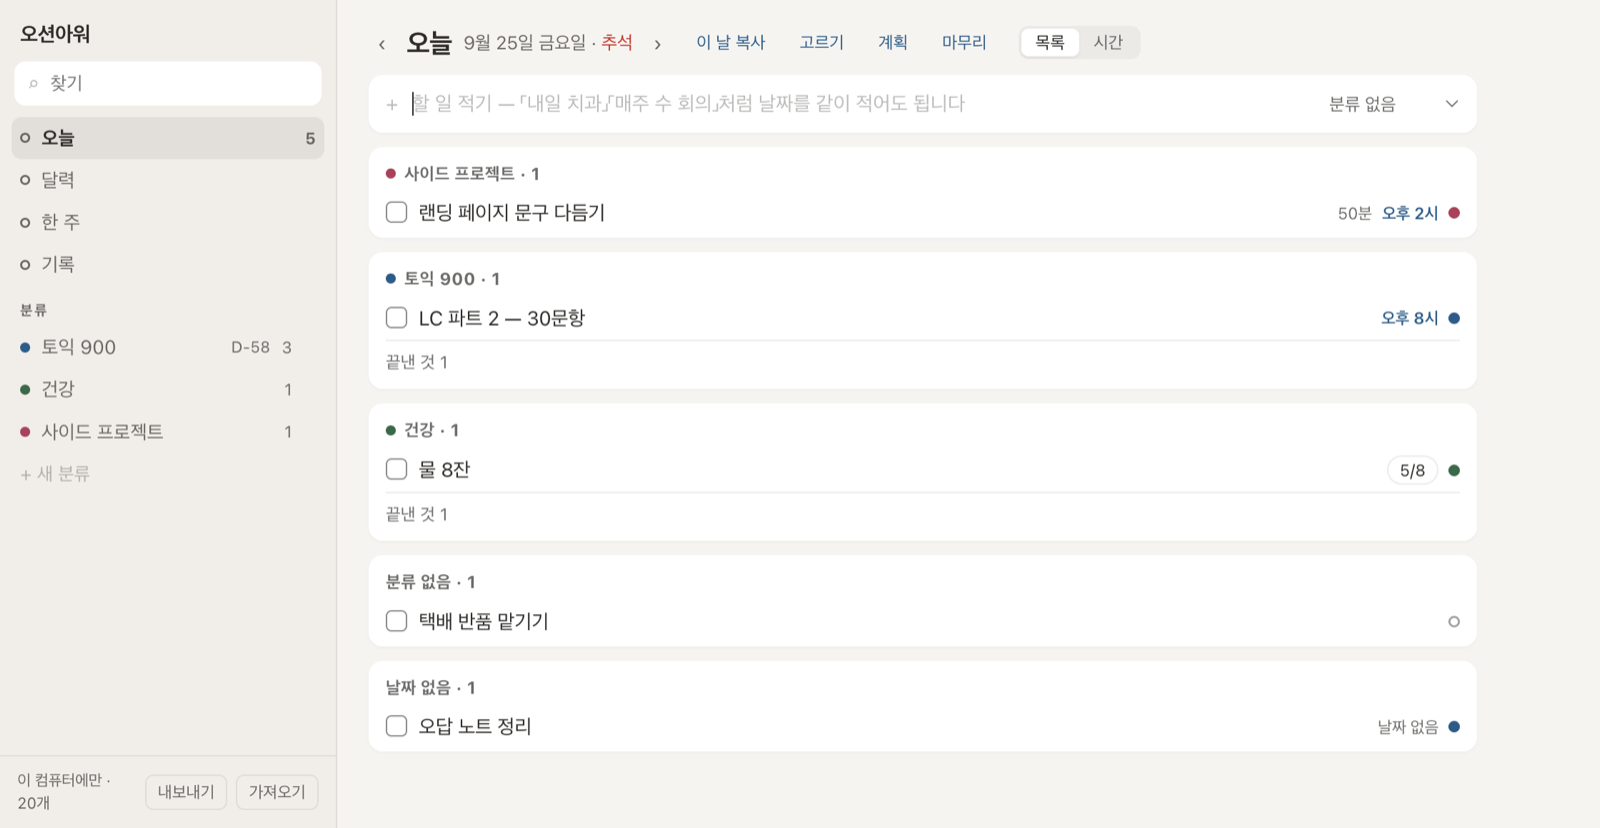
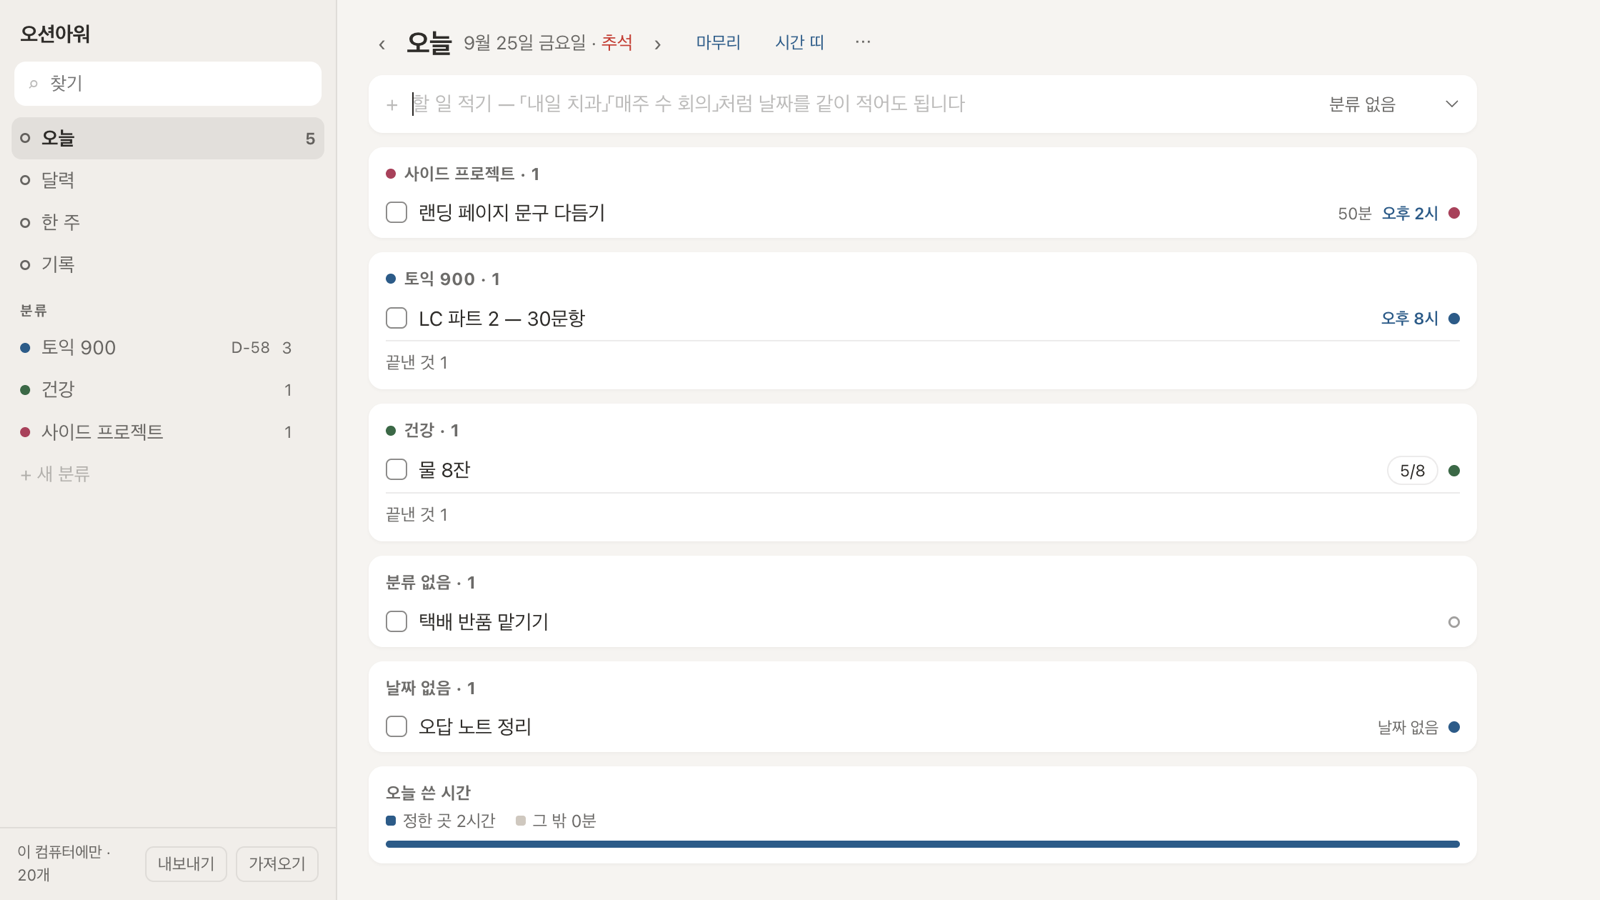
덜어내기 · 첫날 차이 · 파는 페이지 값 칸
- 날짜 줄은 다섯, 할 일 줄 도구는 여덟만 늘 보이고 나머지는 ⋯ · 더로 편다
- 처음 연 빈 화면에 예시 막대, 오늘 화면 맨 아래에 오늘 쓴 시간
- 파는 페이지: 폰 앱 「준비 중」을 사실대로 고침, 오늘 화면 사진 새로

diff --git a/app/index.html b/app/index.html
@@ -184,6 +184,15 @@ main{flex:1;overflow:auto}
 .daybar button{color:var(--d70);font-size:15px;padding:1px 6px;border-radius:6px;line-height:1.3}
 .daybar button:hover{background:var(--hov);color:var(--ink)}
 .daybar .today{font-size:12px;margin-left:4px;color:var(--c4)}
+/* 늘 보이는 단추는 다섯까지(규칙 13) — 나머지는 「⋯」를 누르면 편다 */
+.daybar .xtra{display:none}
+.daybar.more-on .xtra{display:inline-block}
+.daybar .dmore{font-size:14px;padding:1px 7px;letter-spacing:.05em}
+.daybar.more-on .dmore{background:var(--hov);color:var(--ink)}
+.daybar .dseg{background:transparent;padding:0;margin-left:4px}
+.daybar .dseg button.on{display:none}
+.daybar .seg.dseg button{font-size:12px;color:var(--c4);padding:1px 6px;border-radius:6px}
+.daybar .seg.dseg button:hover{background:var(--hov)}
 .daybar .gdot{width:10px;height:10px}
 .daybar .gn{cursor:text;border-radius:4px;padding:0 2px;margin:0 -2px}
 .daybar .gn:hover{background:var(--hov)}
@@ -258,6 +267,9 @@ li.row:has(.edit) .tools{display:none}
 body.cool .tools{pointer-events:none!important}   /* 도구를 누른 직후 0.5초 — 줄이 밀려 다른 단추가 손 밑에 와도 두 번 눌리지 않게 */
 .tools button{font-size:11.5px;color:var(--d70);padding:2px 5px;border-radius:5px;white-space:nowrap}
 .tools button:hover{background:var(--hov);color:var(--ink)}
+.tools .xtra{display:none}                     /* 늘 보이는 도구는 여덟까지(규칙 13) — 나머지는 「더」 */
+li.row.tools-more .tools .xtra{display:inline-block}
+li.row.tools-more .tools .tmore{display:none}
 .tools .rep{position:relative;display:inline-flex}
 .tools .rep select{position:absolute;inset:0;width:100%;opacity:0;cursor:pointer}
 .tools .rep:hover button{background:var(--hov);color:var(--ink)}
@@ -265,6 +277,10 @@ body.cool .tools{pointer-events:none!important}   /* 도구를 누른 직후 0.5
 .edit.big{font-size:19px;font-weight:700;width:auto;min-width:240px}
 .box > .edit{display:block;margin:4px 0 8px;padding:3px 4px}
 .empty{color:var(--d32);font-size:13px;padding:7px 0 11px}
+.first{border-top:1px solid var(--line);padding:11px 0 4px;font-size:13px;color:var(--d70);line-height:1.6}
+.first p{margin:0 0 10px}
+.first .ex{background:var(--hov);border-radius:8px;padding:7px 10px 1px;margin:0 0 10px}
+.first .exl{display:block;font-size:11px;font-weight:700;letter-spacing:.08em;margin:0 0 5px}
 /* 메모 — 줄 아래에 펼친다. 적는 대로 저장한다 */
 .meta .nm-mark{cursor:pointer}
 /* 하위 할 일 — 줄 아래로 펼친다. 한 겹만 */
@@ -448,6 +464,9 @@ body.tdragging,body.tdragging *{cursor:grabbing!important;user-select:none}
   .topbar .tb-t{font-weight:700;font-size:14.5px;letter-spacing:-.02em}
   .wrap{padding:4px 12px calc(96px + env(safe-area-inset-bottom))}
   .daybar{flex-wrap:wrap;row-gap:6px}
+  .daybar.dayb{flex-wrap:nowrap;gap:4px}        /* 날짜 줄은 한 줄로 — 날짜 글자가 길면 줄여서 ⋯ 까지 한 줄에 */
+  .daybar.dayb .wd{min-width:0;overflow:hidden;text-overflow:ellipsis;white-space:nowrap}
+  .daybar.dayb.more-on{flex-wrap:wrap}
   .daybar h1{white-space:nowrap}
   .daybar .ics{margin-left:0}
   input,select,textarea{font-size:16px}          /* 16px 보다 작으면 아이폰이 누를 때마다 화면을 확대한다 */
@@ -1134,6 +1153,8 @@ const editing = () => !!document.querySelector('input.edit')
 let openNotes = new Set();                      // 메모를 펼친 할 일
 let openSubs  = new Set();                      // 하위 할 일을 펼친 할 일
 let toolsOn   = null;                           // 폰 — 「⋯」로 도구를 편 줄 하나
+let toolsMore = null;                           // 도구의 「더」를 편 줄 하나 — 늘 보이는 도구는 여덟까지(규칙 13)
+let dayMore   = false;                          // 날짜 줄의 「⋯」를 폈나
 let copyFor   = null, copyPick = new Set();     // 복사 — 할 일 id 또는 'day:날짜' · 고른 날들
 let picking   = false, picked = new Set();      // 여러 개 골라 한꺼번에
 const stopPick = () => { picking = false; picked = new Set(); };
@@ -1228,6 +1249,7 @@ function drawSide(){
 
 function drawDay(){
   const T = DB.today();
+  $('#daybar').classList.remove('more-on', 'dayb');
   if (q){ $('#daybar').innerHTML = `<h1>찾기</h1><span class="wd">「${esc(q)}」</span>`; return; }
   if (open){
     const l = DB.listOf(open);
@@ -1261,16 +1283,20 @@ function drawDay(){
          ${calWeek !== DB.monday(T) ? `<button class="today" data-cm="0">이번 주</button>` : ''}${seg}${noHoli}${ics}`
       : `<button data-cm="-1">‹</button><h1>${y}년 ${m}월</h1><button data-cm="1">›</button>
          ${calMonth !== T.slice(0, 7) ? `<button class="today" data-cm="0">이번 달</button>` : ''}${seg}${noHoli}${ics}`; return; }
+  // 늘 보이는 단추는 다섯까지(규칙 13) — 나머지는 「⋯」 안에. 계획 · 마무리는 때에 맞는 하나만 앞에 둔다(오후 세 시부터 마무리)
+  const pmNow = new Date().getHours() >= 15;
+  $('#daybar').classList.toggle('more-on', dayMore); $('#daybar').classList.add('dayb');
   $('#daybar').innerHTML =
       `<button data-go="-1">‹</button>
        <h1>${day===T ? '오늘' : dOnly(day)}</h1>
        <span class="wd">${dOnly(day)} ${weekday(day)}${DB.holiday(day) ? ` · <span class="hol">${DB.holiday(day)}</span>` : DB.jeolgi(day) ? ` · ${DB.jeolgi(day)}` : ''}</span>
        <button data-go="1">›</button>
        ${day!==T ? `<button class="today" data-go="0">오늘로</button>` : ''}
-       ${DB.todosOn(day).length ? `<button class="today" data-daycopy title="이 날의 할 일을 다른 날에도">이 날 복사</button>` : ''}
-       <button class="today" data-pickon title="여러 개를 골라 한꺼번에 옮기기 · 끝내기 · 지우기">고르기</button>
-       ${day === T ? `<button class="today" data-flow="am" title="아침 계획 — 남은 일과 날짜 없는 일에서 오늘 할 것 고르기">계획</button><button class="today" data-flow="pm" title="저녁 마무리 — 오늘 한 것 · 남은 것 · 한 줄">마무리</button>` : ''}
-       <span class="seg"><button data-daymode="list" class="${dayMode === 'list' ? 'on' : ''}">목록</button><button data-daymode="time" class="${dayMode === 'time' ? 'on' : ''}" title="그날 하루를 시간 띠로">시간</button></span>`;
+       ${day === T ? `<button class="today ${pmNow ? 'xtra' : ''}" data-flow="am" title="아침 계획 — 남은 일과 날짜 없는 일에서 오늘 할 것 고르기">계획</button><button class="today ${pmNow ? '' : 'xtra'}" data-flow="pm" title="저녁 마무리 — 오늘 한 것 · 남은 것 · 한 줄">마무리</button>` : ''}
+       <span class="seg dseg"><button data-daymode="list" class="${dayMode === 'list' ? 'on' : ''}" title="할 일 목록으로">목록</button><button data-daymode="time" class="${dayMode === 'time' ? 'on' : ''}" title="그날 하루를 시간 띠로">시간 띠</button></span>
+       ${DB.todosOn(day).length ? `<button class="today xtra" data-daycopy title="이 날의 할 일을 다른 날에도">이 날 복사</button>` : ''}
+       <button class="today xtra" data-pickon title="여러 개를 골라 한꺼번에 옮기기 · 끝내기 · 지우기">고르기</button>
+       <button class="dmore" data-daymore title="${dayMore ? '접기' : '더 — ' + (day === T ? (pmNow ? '계획' : '마무리') + ' · ' : '') + (DB.todosOn(day).length ? '이 날 복사 · ' : '') + '고르기'}" aria-label="더 보기">⋯</button>`;
 }
 
 function row(t){
@@ -1294,7 +1320,7 @@ function row(t){
       <option value="days" ${r&&r.every==='days'?'selected':''}>${r&&r.every==='days' ? r.n + '일마다' : '며칠마다…'}</option>
       <option value="times" ${r&&r.every==='times'?'selected':''}>${r&&r.every==='times' ? '주 ' + r.n + '회' : '주 몇 회…'}</option>
       ${r ? `<option value="${r.paused ? 'resume' : 'pause'}">${r.paused ? '다시 하기' : '잠시 멈춤'}</option>` : ''}</select></span>`;
-  return `<li class="row ${t.done?'done':''} ${toolsOn === t.id ? 'tools-on' : ''} ${picked.has(t.id) ? 'picked' : ''}" data-t="${esc(t.id)}" tabindex="-1">
+  return `<li class="row ${t.done?'done':''} ${toolsOn === t.id ? 'tools-on' : ''} ${toolsMore === t.id ? 'tools-more' : ''} ${picked.has(t.id) ? 'picked' : ''}" data-t="${esc(t.id)}" tabindex="-1">
     ${picking ? `<span class="pk"></span>` : ''}
     ${m === 'day' || m === 'goal' ? `<span class="grip" draggable="true" title="끌어서 순서 바꾸기">⋮⋮</span>` : ''}
     <span class="ck ${t.done?'on':''}" data-do="toggle"></span>
@@ -1304,17 +1330,18 @@ function row(t){
         ${t.run ? `<button data-do="stop">멈춤</button>` : !t.done && !inLog ? `<button data-do="start" title="시간 재기">시작</button>` : ''}
         ${!inLog && t.date ? `<button data-do="tomorrow">${t.date > T ? '하루 뒤로' : '내일로'}</button>` : ''}
         ${!inLog && t.date !== T ? `<button data-do="toToday">오늘로</button>` : ''}
-        ${!inLog && r && !t.done ? `<button data-do="skip" title="끝낸 것으로 세지 않고 다음 날로">건너뛰기</button>` : ''}
-        ${!inLog && r && !t.done && !t.run ? `<button data-do="detach" title="이번 것만 따로 떼어 고칩니다 — 반복은 다음 날부터 그대로">이번만 따로</button>` : ''}
         ${!inLog && !t.done ? repSel : ''}
         ${!inLog && !t.done ? (t.time ? `<button data-do="cleartime">시각 빼기</button>` : `<button data-do="timepick">시각</button>`) : ''}
-        ${!inLog && !t.done && t.date && !r ? (t.endDate ? `<button data-do="clearend">기간 빼기</button>` : `<button data-do="endpick" title="며칠에 걸친 일 — 끝나는 날 고르기">기간</button>`) : ''}
-        ${!inLog && !t.done ? (t.deadline ? `<button data-do="cleardl">마감 빼기</button>` : `<button data-do="dlpick" title="언제까지 — 할 날과 따로">마감</button>`) : ''}
         ${!hasNote ? `<button data-do="note">메모</button>` : ''}
         ${!subs.length && !inLog ? `<button data-do="subs" title="잘게 나눠 적기">하위 할 일</button>` : ''}
-        ${!inLog ? `<button data-do="copy" title="같은 일을 다른 날에도">복사</button>` : ''}
-        ${!inLog && !t.done ? (t.goal ? `<button data-do="countdown" title="하나 빼기">한 번 빼기</button><button data-do="nogoal">세기 빼기</button>` : `<button data-do="setgoal" title="물 8잔처럼 하루에 여러 번">세기</button>`) : ''}
         <button data-do="del">지움</button>
+        ${!inLog && r && !t.done ? `<button class="xtra" data-do="skip" title="끝낸 것으로 세지 않고 다음 날로">건너뛰기</button>` : ''}
+        ${!inLog && r && !t.done && !t.run ? `<button class="xtra" data-do="detach" title="이번 것만 따로 떼어 고칩니다 — 반복은 다음 날부터 그대로">이번만 따로</button>` : ''}
+        ${!inLog && !t.done && t.date && !r ? (t.endDate ? `<button class="xtra" data-do="clearend">기간 빼기</button>` : `<button class="xtra" data-do="endpick" title="며칠에 걸친 일 — 끝나는 날 고르기">기간</button>`) : ''}
+        ${!inLog && !t.done ? (t.deadline ? `<button class="xtra" data-do="cleardl">마감 빼기</button>` : `<button class="xtra" data-do="dlpick" title="언제까지 — 할 날과 따로">마감</button>`) : ''}
+        ${!inLog ? `<button class="xtra" data-do="copy" title="같은 일을 다른 날에도">복사</button>` : ''}
+        ${!inLog && !t.done ? (t.goal ? `<button class="xtra" data-do="countdown" title="하나 빼기">한 번 빼기</button><button class="xtra" data-do="nogoal">세기 빼기</button>` : `<button class="xtra" data-do="setgoal" title="물 8잔처럼 하루에 여러 번">세기</button>`) : ''}
+        ${!inLog ? `<button class="tmore" data-do="toolmore" title="더 — 건너뛰기 · 기간 · 마감 · 복사 · 세기">더</button>` : ''}
       </span>
       <button class="more" data-do="more" aria-label="도구 펼치기">⋯</button>
       ${t.run ? `<span class="d run" data-run="${esc(t.id)}">● ${fmtClock(DB.runSecs(t))}</span>`
@@ -1609,14 +1636,24 @@ function drawBody(){
         + (showPast ? `<div class="box"><ul>${p.map(row).join('')}</ul></div>` : '');
     }
     const ts = DB.todosOn(day).sort(DB.byWhen), rt = ts.filter(t => t.repeat);   // 루틴(반복하는 일)은 맨 위 한 칸에 따로
+    const first = day === T && !DB.todos().length && !DB.lists().length;   // 처음 온 사람 — 설명 창 없이 빈 칸에서 차이를 보여 준다(규칙 9)
     html += ts.length ? (rt.length ? `<div class="box routine"><h2>루틴${cnt(rt)}</h2>${rows(rt)}</div>` : '') + group(ts.filter(t => !t.repeat), true)
       : `<div class="box"><div class="empty">${day===T
-          ? '오늘 할 일이 없습니다. 위에 적어 보세요.' : '이 날은 비어 있습니다.'}</div></div>`;
+          ? '오늘 할 일이 없습니다. 위에 적어 보세요.' : '이 날은 비어 있습니다.'}</div>${first ? firstHint() : ''}</div>`;
     const un = DB.undated().sort(DB.byWhen);
     if (un.length && day === T)
       html += `<div class="box"><h2>날짜 없음${cnt(un)}</h2>${rows(un)}</div>`;
+    const sp = DB.timeByDay()[day];               // 이 날 쓴 시간 — 정한 곳 · 그 밖을 오늘 화면에서도(규칙 9). 잰 게 있을 때만, 맨 아래에
+    if (sp && sp.on + sp.off) html += `<div class="box dsum"><h2>${day === T ? '오늘' : '이 날'} 쓴 시간</h2>${timeLine(sp)}</div>`;
   }
   $('#body').innerHTML = html;
+}
+
+function firstHint(){                           // 처음 온 사람에게 — 두 줄과 예시 막대 하나. 할 일이나 목표가 하나라도 생기면 사라진다
+  return `<div class="first"><p>「+ 새 분류」로 목표를 만들고(폰은 ☰ 안), 그 목표의 일에 시간을 쓰면 하루가 둘로 나뉘어 보입니다.
+      정한 곳은 목표에 이어 둔 일, 그 밖은 나머지입니다.</p>
+    <div class="ex"><span class="exl">예시</span>${timeLine({ on:7200, off:3600 })}</div>
+    <p>시간은 할 일 줄의 「시작」으로 재거나, 「3시 공부」처럼 시각을 적어 두고 끝내면 들어갑니다.</p></div>`;
 }
 
 /* ── 제자리 고치기 ── */
@@ -1906,6 +1943,10 @@ document.addEventListener('click', e => {
 
 /* ── 누르기 ── */
 let coolT;
+document.addEventListener('click', e => {         // 날짜 줄 「⋯」 — 펴고 접는다. 편 것 중 하나를 누르면 접는다(먼저 돈다)
+  if (e.target.closest('[data-daymore]')){ dayMore = !dayMore; e.stopImmediatePropagation(); return render(); }
+  if (dayMore && e.target.closest('#daybar .xtra')) dayMore = false;
+}, true);
 document.addEventListener('click', e => {
   if (swallowClick){ swallowClick = false; return; }
   if (e.target.closest('[data-pickon]')){ picking = !picking; picked = new Set(); toolsOn = null; return render(); }
@@ -2050,17 +2091,18 @@ document.addEventListener('click', e => {
   const el = e.target.closest('[data-do]'); if (!el) return;
   const t = DB.todo(el.closest('[data-t]').dataset.t); if (!t) return;
   const a = el.dataset.do;
-  if (a === 'more'){ toolsOn = toolsOn === t.id ? null : t.id; return render(); }
-  if (a === 'copy'){ toolsOn = null; copyFor = copyFor === t.id ? null : t.id; copyPick = new Set(); return render(); }
+  if (a === 'more'){ toolsOn = toolsOn === t.id ? null : t.id; toolsMore = null; return render(); }
+  if (a === 'toolmore'){ toolsMore = toolsMore === t.id ? null : t.id; return render(); }
+  if (a === 'copy'){ toolsOn = null; toolsMore = null; copyFor = copyFor === t.id ? null : t.id; copyPick = new Set(); return render(); }
   if (a === 'countup' || a === 'countdown'){ const r = DB.countUp(t.id, a === 'countup' ? 1 : -1); if (!r) return; render();
     if (r.full) toast(`다 채웠습니다 · 「${t.text}」 ${r.n}/${t.goal}`, () => { DB.toggleTodo(t.id); DB.countUp(t.id, -1); });
     return; }
   if (a === 'setgoal'){ const n = parseInt(prompt('하루에 몇 번 할까요? (2~99)', 3), 10);
     if (n >= 2 && n <= 99) DB.editTodo(t.id, { goal:n }); return render(); }
   if (a === 'nogoal'){ const was = t.goal; DB.editTodo(t.id, { goal:null }); render(); return toast(`세기를 뺐습니다 · 「${t.text}」`, () => DB.editTodo(t.id, { goal:was })); }
-  if (a === 'detach'){ toolsOn = null; const r = DB.detachOnce(t.id); if (!r) return;
+  if (a === 'detach'){ toolsOn = null; toolsMore = null; const r = DB.detachOnce(t.id); if (!r) return;
     render(); return toast(`이번 것만 떼어 냈습니다 · 반복은 ${dOnly(DB.todo(t.id).date)}부터`, () => DB.undetach(r)); }
-  if (el.closest('.tools')) toolsOn = null;       // 도구를 하나 쓰면 접는다
+  if (el.closest('.tools')){ toolsOn = null; toolsMore = null; }   // 도구를 하나 쓰면 접는다
   if (el.closest('.tools')){ document.body.classList.add('cool'); clearTimeout(coolT);
     coolT = setTimeout(() => document.body.classList.remove('cool'), 500); }
 

diff --git a/index.html b/index.html
@@ -73,7 +73,7 @@ ul.facts{padding:0 0 0 18px;margin:0}
 ul.facts li{margin:0 0 8px}
 .price{font-size:22px;font-weight:700;margin:6px 0 8px}
 .card .go{margin-top:14px}
-.card.later{background:transparent;border:1px dashed rgba(46,44,41,.22);box-shadow:none}
+.card.solo{max-width:430px;margin:0 0 14px}
 footer{border-top:1px solid var(--line);padding:24px 0 40px;font-size:13px;color:var(--d70)}
 @media (max-width:640px){
   h1{font-size:31px}
@@ -129,8 +129,8 @@ footer{border-top:1px solid var(--line);padding:24px 0 40px;font-size:13px;color
     <li><h3>주말에 돌아봅니다</h3><p>잘 된 것, 걸린 것, 다음 주 한 가지. 세 칸이면 끝입니다.</p></li>
   </ol>
   <figure class="shot">
-    <img src="shot-today.png" width="1600" height="828" alt="오션아워 오늘 화면. 맨 위가 바로 적는 칸이고, 할 일이 목표별로 묶여 있다">
-    <figcaption>열면 바로 적는 칸입니다. 「내일 치과 3시」처럼 날짜와 시각을 같이 적어도 알아듣습니다.</figcaption>
+    <img src="shot-today.png" width="1600" height="900" alt="오션아워 오늘 화면. 맨 위가 바로 적는 칸이고, 할 일이 목표별로 묶여 있고, 맨 아래에 오늘 쓴 시간이 정한 곳과 그 밖으로 나뉘어 있다">
+    <figcaption>열면 바로 적는 칸입니다. 맨 아래에 오늘 쓴 시간이 정한 곳과 그 밖으로 나뉩니다.</figcaption>
   </figure>
 </section>
 
@@ -157,19 +157,13 @@ footer{border-top:1px solid var(--line);padding:24px 0 40px;font-size:13px;color
 <section>
   <p class="lbl">Price</p>
   <h2>값</h2>
-  <div class="two">
-    <div class="card">
-      <h3>웹판</h3>
-      <p class="price">무료</p>
-      <p>지금 있는 기능 전부. 앞으로도 무료입니다.</p>
-      <a class="go" href="./app/">웹에서 쓰기</a>
-    </div>
-    <div class="card later">
-      <h3>폰 앱</h3>
-      <p class="price">준비 중</p>
-      <p>위젯, 잠금화면, 앱을 닫아도 오는 알림. 한 번 사면 끝이고 구독은 없습니다. 값은 앱이 나오는 날 알려 드립니다.</p>
-    </div>
+  <div class="card solo">
+    <h3>웹판</h3>
+    <p class="price">무료</p>
+    <p>지금 있는 기능 전부. 앞으로도 무료입니다. 가입도 광고도 없습니다.</p>
+    <a class="go" href="./app/">웹에서 쓰기</a>
   </div>
+  <p class="note">폰 앱은 아직 없습니다. 나중에 내더라도 구독이 아니라 한 번 사는 값으로 냅니다.</p>
 </section>
 
 <footer>오션아워 · 2026</footer>
